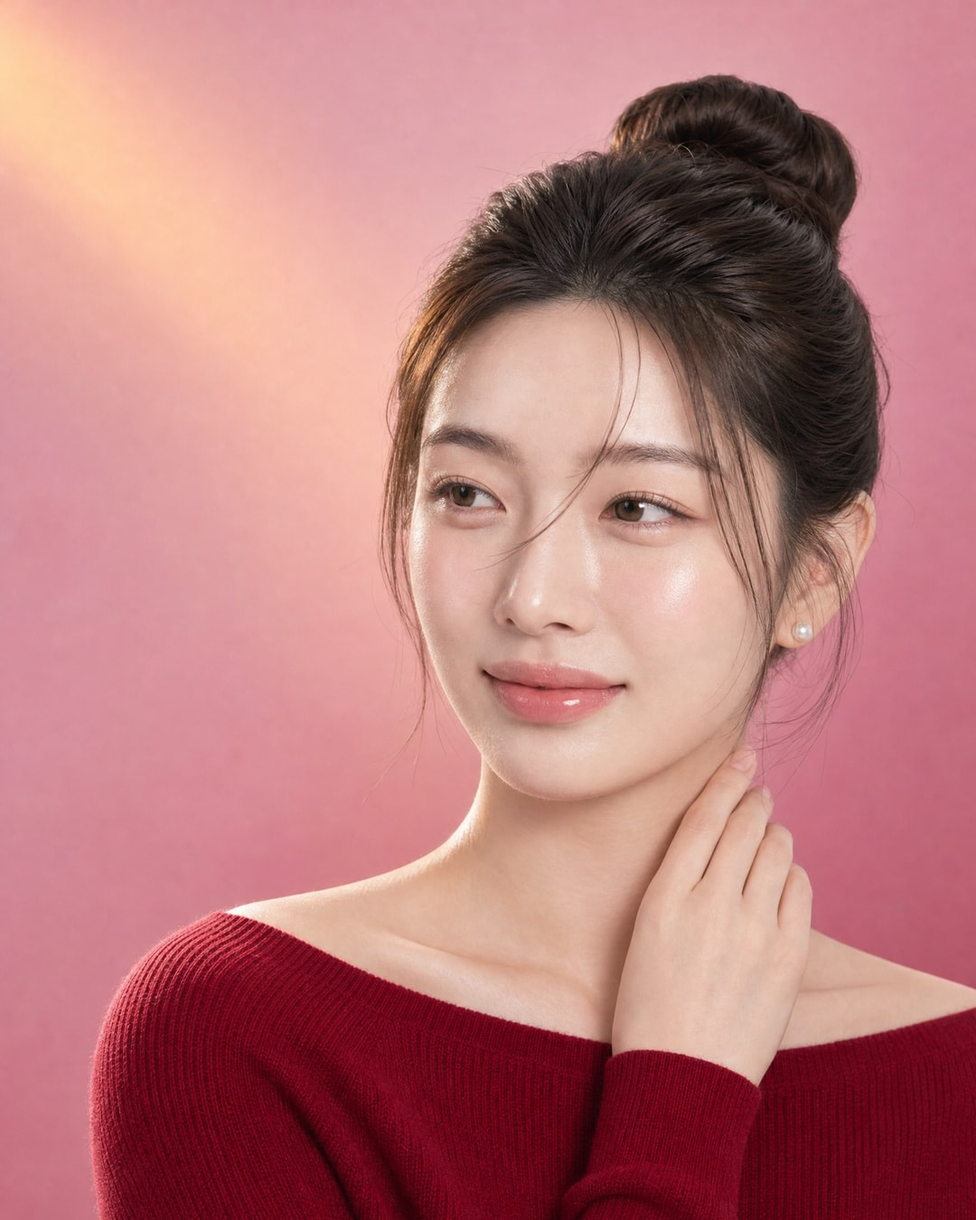
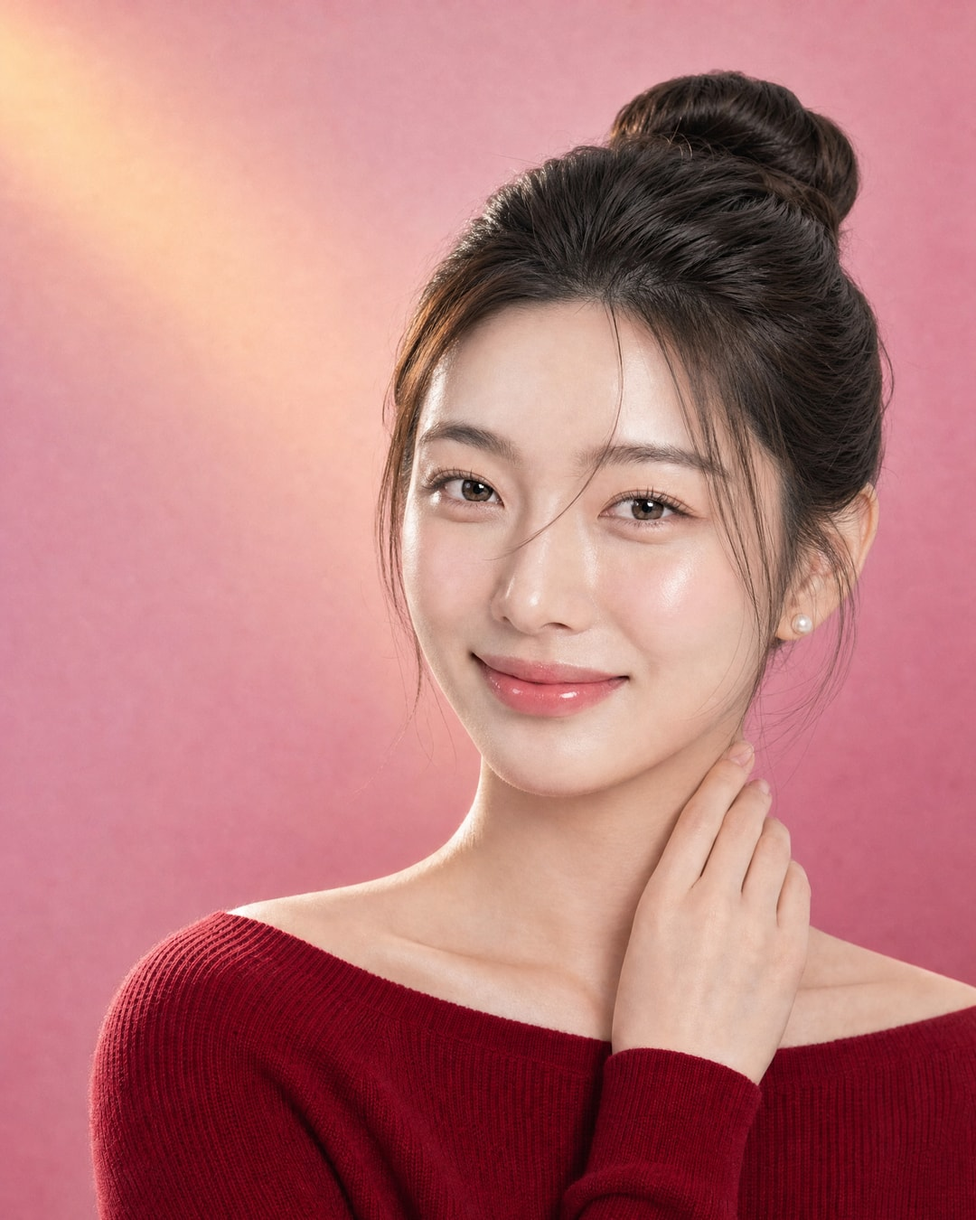
events-2026-12: CMB12F 히어로 미소 컷·2장 A 모델 컷(코멘트 #4·#12)

diff --git a/events-2026-12/combo12f/index.html b/events-2026-12/combo12f/index.html
@@ -26,7 +26,7 @@
 
     <!-- 1 / 5 : hero (F composition, model on the right, captions on the left) -->
     <section class="card c1" data-card="1" data-size-hide="line kakao" aria-labelledby="c6_t1">
-      <img class="c1-photo" src="assets/hero.jpg?v=a" data-alt="c6_alt_hero" alt="" width="1080" height="1350">
+      <img class="c1-photo" src="assets/hero.jpg?v=b" data-alt="c6_alt_hero" alt="" width="1080" height="1350">
       <span class="h-shade" aria-hidden="true"></span>
       <span class="frame f-hero" aria-hidden="true"><i class="fc tl"></i><i class="fc tr"></i><i class="fc bl"></i><i class="fc br"></i></span>
       <img class="dec h-glint" src="assets/dec/glint-1.png" alt="" aria-hidden="true" width="220" height="220">
@@ -50,7 +50,7 @@
     <!-- SZ:line:1a -->
     <!-- line 1A: the model cutout large at the right on the petal colour, caption and hook boxes at the left, the title low left, period / VAT / contact along the bottom -->
     <section class="card c1 L L1a" data-card="1" data-size-only="line" aria-labelledby="c6_t1-l">
-      <img class="h-model" src="sizes/hero-cut.webp" data-alt="c6_alt_hero" alt="">
+      <img class="h-model" src="sizes/hero-cut.webp?v=b" data-alt="c6_alt_hero" alt="">
       <span class="h-shade" aria-hidden="true"></span>
       <span class="frame f-hero" aria-hidden="true"><i class="fc tl"></i><i class="fc tr"></i><i class="fc bl"></i><i class="fc br"></i></span>
       <img class="dec h-glint" src="assets/dec/glint-1.png" alt="" aria-hidden="true" width="220" height="220">
@@ -75,7 +75,7 @@
     <!-- SZ:kakao:1a -->
     <!-- kakao 1A: the model cutout at the right on the petal colour, caption, hook and title at the left, period / VAT / contact along the bottom -->
     <section class="card c1 K K1a" data-card="1" data-size-only="kakao" aria-labelledby="c6_t1-k">
-      <img class="h-model" src="sizes/hero-cut.webp" data-alt="c6_alt_hero" alt="">
+      <img class="h-model" src="sizes/hero-cut.webp?v=b" data-alt="c6_alt_hero" alt="">
       <span class="h-shade" aria-hidden="true"></span>
       <span class="frame f-hero" aria-hidden="true"><i class="fc tl"></i><i class="fc tr"></i><i class="fc bl"></i><i class="fc br"></i></span>
       <img class="dec h-glint" src="assets/dec/glint-1.png" alt="" aria-hidden="true" width="220" height="220">
@@ -174,7 +174,7 @@
     <!-- /SZ:kakao:1b -->
 
     <!-- 2 / 5 : prices, sheet rows 74-84 of 10_combo L73:T84 in sheet order -->
-    <section class="card cp rp-15" data-card="2" data-size-hide="line kakao" aria-labelledby="c6_t2">
+    <section class="card cp rp-15 c2m" data-card="2" data-size-hide="line kakao" aria-labelledby="c6_t2">
       <img class="tex" src="assets/tex-linen.jpg?v=a" alt="" aria-hidden="true" width="1080" height="1350">
       <span class="frame f-card" aria-hidden="true"><i class="fc tl"></i><i class="fc tr"></i><i class="fc bl"></i><i class="fc br"></i></span>
       <img class="dec p-snow" src="assets/dec/snow-2.png" alt="" aria-hidden="true" width="200" height="200">
@@ -186,7 +186,7 @@
           <p class="p-lead" data-copy="c6_p_lead"></p>
         </div>
         
-        <div class="pboard">
+        <div class="pboard"><img class="c2-model" src="photos/model-c2-cut.webp" data-alt="c6_alt_c2" alt="" width="657" height="1200">
           <div class="pg"><p class="prod-h"><span class="prod-n" data-copy="c6_p74_name"></span></p><ul class="prows"><li class="prow" data-price-row="10_combo:74"><div class="pn"><p class="pline"><span class="pnm" data-copy="c6_r74_name"></span></p></div><span class="plist money" data-price-list data-copy="c6_r74_list"></span><span class="psale money" data-price-sale data-copy="c6_r74_sale"></span></li><li class="prow" data-price-row="10_combo:75"><div class="pn"><p class="pline"><span class="pnm pplus" data-copy="c6_r75_name"></span><span class="pchip" data-copy="c6_r75_chip"></span><span class="pbadge" data-copy="c6_r75_badge"></span></p></div><span class="plist money" data-price-list data-copy="c6_r75_list"></span><span class="psale money" data-price-sale data-copy="c6_r75_sale"></span></li></ul></div>
           <div class="pg"><p class="prod-h"><span class="prod-n" data-copy="c6_p76_name"></span></p><ul class="prows"><li class="prow" data-price-row="10_combo:76"><div class="pn"><p class="pline"><span class="otag" data-copy="c6_r76_tag"></span><span class="pnm pplus" data-copy="c6_r76_name"></span><span class="pchip" data-copy="c6_r76_chip"></span><span class="pbadge" data-copy="c6_r76_badge"></span></p></div><span class="plist money" data-price-list data-copy="c6_r76_list"></span><span class="psale money" data-price-sale data-copy="c6_r76_sale"></span></li><li class="prow" data-price-row="10_combo:77"><div class="pn"><p class="pline"><span class="pnm" data-copy="c6_r77_name"></span><span class="pchip" data-copy="c6_r77_chip"></span><span class="pbadge" data-copy="c6_r77_badge"></span></p></div><span class="plist money" data-price-list data-copy="c6_r77_list"></span><span class="psale money" data-price-sale data-copy="c6_r77_sale"></span></li></ul></div>
           <div class="pg pg-solo"><ul class="prows"><li class="prow solo" data-price-row="10_combo:78"><div class="pn"><p class="pline"><span class="otag" data-copy="c6_r78_tag"></span><span class="pnm pplus" data-copy="c6_r78_name"></span><span class="pbadge" data-copy="c6_r78_badge"></span></p></div><span class="plist money" data-price-list data-copy="c6_r78_list"></span><span class="psale money" data-price-sale data-copy="c6_r78_sale"></span></li><li class="prow solo" data-price-row="10_combo:79"><div class="pn"><p class="pline"><span class="otag" data-copy="c6_r79_tag"></span><span class="pnm pplus" data-copy="c6_r79_name"></span></p></div><span class="plist money" data-price-list data-copy="c6_r79_list"></span><span class="psale money" data-price-sale data-copy="c6_r79_sale"></span></li><li class="prow solo" data-price-row="10_combo:80"><div class="pn"><p class="pline"><span class="pnm pplus" data-copy="c6_r80_name"></span></p></div><span class="plist money" data-price-list data-copy="c6_r80_list"></span><span class="psale money" data-price-sale data-copy="c6_r80_sale"></span></li><li class="prow solo" data-price-row="10_combo:81"><div class="pn"><p class="pline"><span class="pnm pplus" data-copy="c6_r81_name"></span></p></div><span class="plist money" data-price-list data-copy="c6_r81_list"></span><span class="psale money" data-price-sale data-copy="c6_r81_sale"></span></li><li class="prow solo" data-price-row="10_combo:82"><div class="pn"><p class="pline"><span class="pnm pplus" data-copy="c6_r82_name"></span><span class="pbadge" data-copy="c6_r82_badge"></span></p></div><span class="plist money" data-price-list data-copy="c6_r82_list"></span><span class="psale money" data-price-sale data-copy="c6_r82_sale"></span></li><li class="prow solo" data-price-row="10_combo:83"><div class="pn"><p class="pline"><span class="pnm" data-copy="c6_r83_name"></span></p></div><span class="plist money" data-price-list data-copy="c6_r83_list"></span><span class="psale money" data-price-sale data-copy="c6_r83_sale"></span></li><li class="prow solo" data-price-row="10_combo:84"><div class="pn"><p class="pline"><span class="pnm" data-copy="c6_r84_name"></span><span class="pbadge" data-copy="c6_r84_badge"></span></p></div><span class="plist money" data-price-list data-copy="c6_r84_list"></span><span class="psale money" data-price-sale data-copy="c6_r84_sale"></span></li></ul></div>
@@ -195,8 +195,8 @@
       </div>
     </section>
     <!-- SZ:line:2a -->
-    <!-- line 2A: head, the board in two columns (74-75 and 76-77 | 78-84), the 49% line and VAT -->
-    <section class="card cp rp-15 L L2a" data-card="2" data-size-only="line" aria-labelledby="c6_t2-l">
+    <!-- line 2A: head with the model at its right on the board top edge, the board (74-84), the 49% line and VAT -->
+    <section class="card cp rp-15 c2m L L2a" data-card="2" data-size-only="line" aria-labelledby="c6_t2-l">
       <img class="tex" src="assets/tex-linen.jpg?v=a" alt="" aria-hidden="true" width="1080" height="1350">
       <span class="frame f-card" aria-hidden="true"><i class="fc tl"></i><i class="fc tr"></i><i class="fc bl"></i><i class="fc br"></i></span>
       <img class="dec p-snow" src="assets/dec/snow-2.png" alt="" aria-hidden="true" width="200" height="200">
@@ -208,7 +208,7 @@
           <p class="p-lead" data-copy="c6_p_lead"></p>
         </div>
         
-        <div class="pboard">
+        <div class="pboard"><img class="c2-model" src="photos/model-c2-cut.webp" data-alt="c6_alt_c2" alt="" width="657" height="1200">
           <div class="pg"><p class="prod-h"><span class="prod-n" data-copy="c6_p74_name"></span></p><ul class="prows"><li class="prow" data-price-row="10_combo:74"><div class="pn"><p class="pline"><span class="pnm" data-copy="c6_r74_name"></span></p></div><span class="plist money" data-price-list data-copy="c6_r74_list"></span><span class="psale money" data-price-sale data-copy="c6_r74_sale"></span></li><li class="prow" data-price-row="10_combo:75"><div class="pn"><p class="pline"><span class="pnm pplus" data-copy="c6_r75_name"></span><span class="pchip" data-copy="c6_r75_chip"></span><span class="pbadge" data-copy="c6_r75_badge"></span></p></div><span class="plist money" data-price-list data-copy="c6_r75_list"></span><span class="psale money" data-price-sale data-copy="c6_r75_sale"></span></li></ul></div>
           <div class="pg"><p class="prod-h"><span class="prod-n" data-copy="c6_p76_name"></span></p><ul class="prows"><li class="prow" data-price-row="10_combo:76"><div class="pn"><p class="pline"><span class="otag" data-copy="c6_r76_tag"></span><span class="pnm pplus" data-copy="c6_r76_name"></span><span class="pchip" data-copy="c6_r76_chip"></span><span class="pbadge" data-copy="c6_r76_badge"></span></p></div><span class="plist money" data-price-list data-copy="c6_r76_list"></span><span class="psale money" data-price-sale data-copy="c6_r76_sale"></span></li><li class="prow" data-price-row="10_combo:77"><div class="pn"><p class="pline"><span class="pnm" data-copy="c6_r77_name"></span><span class="pchip" data-copy="c6_r77_chip"></span><span class="pbadge" data-copy="c6_r77_badge"></span></p></div><span class="plist money" data-price-list data-copy="c6_r77_list"></span><span class="psale money" data-price-sale data-copy="c6_r77_sale"></span></li></ul></div>
           <div class="pg pg-solo"><ul class="prows"><li class="prow solo" data-price-row="10_combo:78"><div class="pn"><p class="pline"><span class="otag" data-copy="c6_r78_tag"></span><span class="pnm pplus" data-copy="c6_r78_name"></span><span class="pbadge" data-copy="c6_r78_badge"></span></p></div><span class="plist money" data-price-list data-copy="c6_r78_list"></span><span class="psale money" data-price-sale data-copy="c6_r78_sale"></span></li><li class="prow solo" data-price-row="10_combo:79"><div class="pn"><p class="pline"><span class="otag" data-copy="c6_r79_tag"></span><span class="pnm pplus" data-copy="c6_r79_name"></span></p></div><span class="plist money" data-price-list data-copy="c6_r79_list"></span><span class="psale money" data-price-sale data-copy="c6_r79_sale"></span></li><li class="prow solo" data-price-row="10_combo:80"><div class="pn"><p class="pline"><span class="pnm pplus" data-copy="c6_r80_name"></span></p></div><span class="plist money" data-price-list data-copy="c6_r80_list"></span><span class="psale money" data-price-sale data-copy="c6_r80_sale"></span></li><li class="prow solo" data-price-row="10_combo:81"><div class="pn"><p class="pline"><span class="pnm pplus" data-copy="c6_r81_name"></span></p></div><span class="plist money" data-price-list data-copy="c6_r81_list"></span><span class="psale money" data-price-sale data-copy="c6_r81_sale"></span></li><li class="prow solo" data-price-row="10_combo:82"><div class="pn"><p class="pline"><span class="pnm pplus" data-copy="c6_r82_name"></span><span class="pbadge" data-copy="c6_r82_badge"></span></p></div><span class="plist money" data-price-list data-copy="c6_r82_list"></span><span class="psale money" data-price-sale data-copy="c6_r82_sale"></span></li><li class="prow solo" data-price-row="10_combo:83"><div class="pn"><p class="pline"><span class="pnm" data-copy="c6_r83_name"></span></p></div><span class="plist money" data-price-list data-copy="c6_r83_list"></span><span class="psale money" data-price-sale data-copy="c6_r83_sale"></span></li><li class="prow solo" data-price-row="10_combo:84"><div class="pn"><p class="pline"><span class="pnm" data-copy="c6_r84_name"></span><span class="pbadge" data-copy="c6_r84_badge"></span></p></div><span class="plist money" data-price-list data-copy="c6_r84_list"></span><span class="psale money" data-price-sale data-copy="c6_r84_sale"></span></li></ul></div>
@@ -218,8 +218,8 @@
     </section>
     <!-- /SZ:line:2a -->
     <!-- SZ:kakao:2a -->
-    <!-- kakao 2A in three parts: kicker, title, 74-75, 76-77 | the lead line, 78-81 | 82-84, the 49% line and VAT -->
-    <section class="card cp rp-15 K K2a K2ap1" data-card="2" data-part="1" data-size-only="kakao" aria-labelledby="c6_t2-k1">
+    <!-- kakao 2A in three parts: kicker, title, the model on the board top, 74-75 | the lead line, 76-77, 78-80 | 81-84, the 49% line and VAT -->
+    <section class="card cp rp-15 c2m K K2a K2ap1" data-card="2" data-part="1" data-size-only="kakao" aria-labelledby="c6_t2-k1">
       <img class="tex" src="assets/tex-linen.jpg?v=a" alt="" aria-hidden="true" width="1080" height="1350">
       <span class="frame f-card" aria-hidden="true"><i class="fc tl"></i><i class="fc tr"></i><i class="fc bl"></i><i class="fc br"></i></span>
       <img class="dec p-snow" src="assets/dec/snow-2.png" alt="" aria-hidden="true" width="200" height="200">
@@ -230,13 +230,12 @@
           <h2 class="p-title" id="c6_t2-k1"><img class="tri" src="assets/dec/tri.png" alt="" aria-hidden="true" width="120" height="120"><span class="pt-main" data-copy="c6_p_title"></span></h2>
         </div>
         
-        <div class="pboard">
+        <div class="pboard"><img class="c2-model" src="photos/model-c2-cut.webp" data-alt="c6_alt_c2" alt="" width="657" height="1200">
           <div class="pg"><p class="prod-h"><span class="prod-n" data-copy="c6_p74_name"></span></p><ul class="prows"><li class="prow" data-price-row="10_combo:74"><div class="pn"><p class="pline"><span class="pnm" data-copy="c6_r74_name"></span></p></div><span class="plist money" data-price-list data-copy="c6_r74_list"></span><span class="psale money" data-price-sale data-copy="c6_r74_sale"></span></li><li class="prow" data-price-row="10_combo:75"><div class="pn"><p class="pline"><span class="pnm pplus" data-copy="c6_r75_name"></span><span class="pchip" data-copy="c6_r75_chip"></span><span class="pbadge" data-copy="c6_r75_badge"></span></p></div><span class="plist money" data-price-list data-copy="c6_r75_list"></span><span class="psale money" data-price-sale data-copy="c6_r75_sale"></span></li></ul></div>
-          <div class="pg"><p class="prod-h"><span class="prod-n" data-copy="c6_p76_name"></span></p><ul class="prows"><li class="prow" data-price-row="10_combo:76"><div class="pn"><p class="pline"><span class="otag" data-copy="c6_r76_tag"></span><span class="pnm pplus" data-copy="c6_r76_name"></span><span class="pchip" data-copy="c6_r76_chip"></span><span class="pbadge" data-copy="c6_r76_badge"></span></p></div><span class="plist money" data-price-list data-copy="c6_r76_list"></span><span class="psale money" data-price-sale data-copy="c6_r76_sale"></span></li><li class="prow" data-price-row="10_combo:77"><div class="pn"><p class="pline"><span class="pnm" data-copy="c6_r77_name"></span><span class="pchip" data-copy="c6_r77_chip"></span><span class="pbadge" data-copy="c6_r77_badge"></span></p></div><span class="plist money" data-price-list data-copy="c6_r77_list"></span><span class="psale money" data-price-sale data-copy="c6_r77_sale"></span></li></ul></div>
         </div>
       </div>
     </section>
-    <section class="card cp rp-15 K K2a K2ap2" data-card="2" data-part="2" data-size-only="kakao" aria-label="베스트셀러 시술 금액 2">
+    <section class="card cp rp-15 c2m K K2a K2ap2" data-card="2" data-part="2" data-size-only="kakao" aria-label="베스트셀러 시술 금액 2">
       <img class="tex" src="assets/tex-linen.jpg?v=a" alt="" aria-hidden="true" width="1080" height="1350">
       <span class="frame f-card" aria-hidden="true"><i class="fc tl"></i><i class="fc tr"></i><i class="fc bl"></i><i class="fc br"></i></span>
       <img class="dec p-snow" src="assets/dec/snow-2.png" alt="" aria-hidden="true" width="200" height="200">
@@ -247,11 +246,12 @@
         </div>
         
         <div class="pboard">
-          <div class="pg pg-solo"><ul class="prows"><li class="prow solo" data-price-row="10_combo:78"><div class="pn"><p class="pline"><span class="otag" data-copy="c6_r78_tag"></span><span class="pnm pplus" data-copy="c6_r78_name"></span><span class="pbadge" data-copy="c6_r78_badge"></span></p></div><span class="plist money" data-price-list data-copy="c6_r78_list"></span><span class="psale money" data-price-sale data-copy="c6_r78_sale"></span></li><li class="prow solo" data-price-row="10_combo:79"><div class="pn"><p class="pline"><span class="otag" data-copy="c6_r79_tag"></span><span class="pnm pplus" data-copy="c6_r79_name"></span></p></div><span class="plist money" data-price-list data-copy="c6_r79_list"></span><span class="psale money" data-price-sale data-copy="c6_r79_sale"></span></li><li class="prow solo" data-price-row="10_combo:80"><div class="pn"><p class="pline"><span class="pnm pplus" data-copy="c6_r80_name"></span></p></div><span class="plist money" data-price-list data-copy="c6_r80_list"></span><span class="psale money" data-price-sale data-copy="c6_r80_sale"></span></li><li class="prow solo" data-price-row="10_combo:81"><div class="pn"><p class="pline"><span class="pnm pplus" data-copy="c6_r81_name"></span></p></div><span class="plist money" data-price-list data-copy="c6_r81_list"></span><span class="psale money" data-price-sale data-copy="c6_r81_sale"></span></li></ul></div>
+          <div class="pg"><p class="prod-h"><span class="prod-n" data-copy="c6_p76_name"></span></p><ul class="prows"><li class="prow" data-price-row="10_combo:76"><div class="pn"><p class="pline"><span class="otag" data-copy="c6_r76_tag"></span><span class="pnm pplus" data-copy="c6_r76_name"></span><span class="pchip" data-copy="c6_r76_chip"></span><span class="pbadge" data-copy="c6_r76_badge"></span></p></div><span class="plist money" data-price-list data-copy="c6_r76_list"></span><span class="psale money" data-price-sale data-copy="c6_r76_sale"></span></li><li class="prow" data-price-row="10_combo:77"><div class="pn"><p class="pline"><span class="pnm" data-copy="c6_r77_name"></span><span class="pchip" data-copy="c6_r77_chip"></span><span class="pbadge" data-copy="c6_r77_badge"></span></p></div><span class="plist money" data-price-list data-copy="c6_r77_list"></span><span class="psale money" data-price-sale data-copy="c6_r77_sale"></span></li></ul></div>
+          <div class="pg pg-solo"><ul class="prows"><li class="prow solo" data-price-row="10_combo:78"><div class="pn"><p class="pline"><span class="otag" data-copy="c6_r78_tag"></span><span class="pnm pplus" data-copy="c6_r78_name"></span><span class="pbadge" data-copy="c6_r78_badge"></span></p></div><span class="plist money" data-price-list data-copy="c6_r78_list"></span><span class="psale money" data-price-sale data-copy="c6_r78_sale"></span></li><li class="prow solo" data-price-row="10_combo:79"><div class="pn"><p class="pline"><span class="otag" data-copy="c6_r79_tag"></span><span class="pnm pplus" data-copy="c6_r79_name"></span></p></div><span class="plist money" data-price-list data-copy="c6_r79_list"></span><span class="psale money" data-price-sale data-copy="c6_r79_sale"></span></li><li class="prow solo" data-price-row="10_combo:80"><div class="pn"><p class="pline"><span class="pnm pplus" data-copy="c6_r80_name"></span></p></div><span class="plist money" data-price-list data-copy="c6_r80_list"></span><span class="psale money" data-price-sale data-copy="c6_r80_sale"></span></li></ul></div>
         </div>
       </div>
     </section>
-    <section class="card cp rp-15 K K2a K2ap3" data-card="2" data-part="3" data-size-only="kakao" aria-label="베스트셀러 시술 금액 3">
+    <section class="card cp rp-15 c2m K K2a K2ap3" data-card="2" data-part="3" data-size-only="kakao" aria-label="베스트셀러 시술 금액 3">
       <img class="tex" src="assets/tex-linen.jpg?v=a" alt="" aria-hidden="true" width="1080" height="1350">
       <span class="frame f-card" aria-hidden="true"><i class="fc tl"></i><i class="fc tr"></i><i class="fc bl"></i><i class="fc br"></i></span>
       <img class="dec p-snow" src="assets/dec/snow-2.png" alt="" aria-hidden="true" width="200" height="200">
@@ -261,7 +261,7 @@
         </div>
         
         <div class="pboard">
-          <div class="pg pg-solo"><ul class="prows"><li class="prow solo" data-price-row="10_combo:82"><div class="pn"><p class="pline"><span class="pnm pplus" data-copy="c6_r82_name"></span><span class="pbadge" data-copy="c6_r82_badge"></span></p></div><span class="plist money" data-price-list data-copy="c6_r82_list"></span><span class="psale money" data-price-sale data-copy="c6_r82_sale"></span></li><li class="prow solo" data-price-row="10_combo:83"><div class="pn"><p class="pline"><span class="pnm" data-copy="c6_r83_name"></span></p></div><span class="plist money" data-price-list data-copy="c6_r83_list"></span><span class="psale money" data-price-sale data-copy="c6_r83_sale"></span></li><li class="prow solo" data-price-row="10_combo:84"><div class="pn"><p class="pline"><span class="pnm" data-copy="c6_r84_name"></span><span class="pbadge" data-copy="c6_r84_badge"></span></p></div><span class="plist money" data-price-list data-copy="c6_r84_list"></span><span class="psale money" data-price-sale data-copy="c6_r84_sale"></span></li></ul></div>
+          <div class="pg pg-solo"><ul class="prows"><li class="prow solo" data-price-row="10_combo:81"><div class="pn"><p class="pline"><span class="pnm pplus" data-copy="c6_r81_name"></span></p></div><span class="plist money" data-price-list data-copy="c6_r81_list"></span><span class="psale money" data-price-sale data-copy="c6_r81_sale"></span></li><li class="prow solo" data-price-row="10_combo:82"><div class="pn"><p class="pline"><span class="pnm pplus" data-copy="c6_r82_name"></span><span class="pbadge" data-copy="c6_r82_badge"></span></p></div><span class="plist money" data-price-list data-copy="c6_r82_list"></span><span class="psale money" data-price-sale data-copy="c6_r82_sale"></span></li><li class="prow solo" data-price-row="10_combo:83"><div class="pn"><p class="pline"><span class="pnm" data-copy="c6_r83_name"></span></p></div><span class="plist money" data-price-list data-copy="c6_r83_list"></span><span class="psale money" data-price-sale data-copy="c6_r83_sale"></span></li><li class="prow solo" data-price-row="10_combo:84"><div class="pn"><p class="pline"><span class="pnm" data-copy="c6_r84_name"></span><span class="pbadge" data-copy="c6_r84_badge"></span></p></div><span class="plist money" data-price-list data-copy="c6_r84_list"></span><span class="psale money" data-price-sale data-copy="c6_r84_sale"></span></li></ul></div>
         </div>
         <p class="uibeop" data-copy="c6_uibeop"></p><p class="vat"><span data-copy="c6_vat"></span></p>
       </div>

diff --git a/events-2026-12/combo12f/copy-data.js b/events-2026-12/combo12f/copy-data.js
@@ -1,2 +1,2 @@
 /* generated by v4/combo12f/build-combo12f.cjs, do not edit by hand */
-window.PAGE_COPY = {"id":"CMB12F","locales":{"KO":{"c6_period":"12.01 – 02.28","c6_vat":"VAT 10% 별도","c6_contact":"예약·문의 02-336-7511","c6_hero_en":"WINTER SEASON EVENT","c6_ca_tag":"이벤트가","c6_hook":"턱선·입매·목주름·팔자, 고민 부위에 맞춰 고르는 쁘띠 시술이에요.","c6_alt_hero":"분홍빛 배경 앞에서 루비색 니트를 입고 목에 손을 얹은 모델","c6_p_kicker":"PRICE LIST","c6_p_lead":"cc는 주입하는 양, 줄은 넣는 실의 개수예요.","c6_xa_kicker":"HOW TO CHOOSE","c6_xa_q":"고민 부위부터 정해요","c6_xa_a":"같은 표 안에서도 부위마다 쓰는 방법이 달라요. 얼굴 라인은 장비와 주사, 입매와 목은 필러와 톡신, 팔자는 실과 필러로 나눠 보면 쉬워요.","c6_xa_k1_t":"얼굴 라인","c6_xa_k1_n":"인모드 · V핏 주사 · 사각턱 톡신","c6_xa_k1_d":"인모드는 고주파 장비예요. FX는 피부를 흡입하며 턱밑 같은 작은 부위에, 포마는 피부에 밀착해 탄력 관리에 써요. V핏 주사는 지방 분해 주사예요.","c6_xa_k2_t":"입매·턱끝","c6_xa_k2_n":"필러 + 톡신 구성","c6_xa_k2_d":"필러는 히알루론산 젤로 볼륨과 윤곽을 채우고, 톡신은 주변 근육의 움직임을 조절해 필러의 모양과 라인을 유지하는 데 도움을 줘요. 입술과 입꼬리, 턱끝과 자갈턱을 함께 받아요.","c6_xa_k3_t":"목주름","c6_xa_k3_n":"필러 1cc + 스킨 톡신","c6_xa_k3_d":"목에 가로로 생긴 주름을 필러로 채워 볼륨을 보완하고, 스킨 톡신을 함께 시술해 목 피부의 잔주름과 결을 관리하는 복합 시술이에요.","c6_xa_k4_t":"팔자","c6_xa_k4_n":"잼버실 · 민트실 · 필러","c6_xa_k4_d":"잼버실은 코일 모양 볼륨실, 민트실은 돌기가 있는 코그실이에요. 둘 다 녹는 PDO 실이고, 잼버실은 필러와 함께 받아요.","c6_xa_pick_t":"원인을 먼저 봐요","c6_xa_pick_d":"같은 부위도 처진 건지, 꺼진 건지, 근육이 발달한 건지에 따라 고르는 시술이 달라요. 상담에서 얼굴 비율과 이전 시술을 보고 함께 정해요.","c6_xa_src":"아이콘은 이해를 돕는 그림이에요 · 출처: 뷰티블라썸 홈페이지 인모드·뷰티핏/블라썸핏 주사·필러·실리프팅 안내","c6_xb_kicker":"HOW IT GOES","c6_xb_q":"시술 당일은 이렇게 진행돼요","c6_xb_a":"부위와 양을 정하고, 필요한 마취 뒤 시술해요. 대부분 받은 날 일상으로 돌아가요.","c6_xb_s1_no":"01","c6_xb_s1_t":"상담·디자인","c6_xb_s1_d":"고민 부위와 이전 시술, 복용 중인 약을 확인하고 부위·제품·양을 정해요.","c6_xb_s2_no":"02","c6_xb_s2_t":"마취","c6_xb_s2_d":"실 시술은 부분 마취를 해요. 다른 시술도 필요하면 마취를 함께 정해요.","c6_xb_s3_no":"03","c6_xb_s3_t":"시술","c6_xb_s3_d":"정한 자리에 주사하거나 실을 넣어요. 인모드는 장비로 진행해요.","c6_xb_s4_no":"04","c6_xb_s4_t":"경과 확인","c6_xb_s4_d":"붓기와 회복 경과를 안내하고, 다음 일정을 함께 정해요.","c6_xb_i1_k":"인모드 시간","c6_xb_i1_v":"5분 내외","c6_xb_i1_n":"얼굴 전체 FX/포마 기준이에요","c6_xb_i2_k":"일상 복귀","c6_xb_i2_v":"대부분 당일","c6_xb_i2_n":"붓기·멍이 생길 수 있어요","c6_xb_i3_k":"실 시술 후 세안","c6_xb_i3_v":"약 24시간 뒤","c6_xb_i3_n":"붓기·멍은 보통 1~2주면 가라앉아요","c6_xb_care_t":"받은 뒤에는 이렇게 관리해요","c6_xb_care1":"실 시술 뒤 1~2주는 얼굴 마사지·사우나·과음·격한 운동을 피해 주세요.","c6_xb_care2":"V핏 주사 뒤 1주일은 음주와 사우나를 피해 주세요.","c6_xb_care3":"필러 부위는 세게 누르거나 문지르지 말아 주세요.","c6_xb_alert":"시야나 피부색이 평소와 다르면 바로 병원에 알려 주세요.","c6_xb_src":"출처: 뷰티블라썸 홈페이지 필러·실리프팅·뷰티핏/블라썸핏 주사 안내","c6_alt_c4":"루비색 니트를 입고 카메라를 보며 환하게 웃는 모델","c6_ab_kicker":"ABOUT BEAUTY BLOSSOM","c6_ab_title":"당신의 하루를 빛나게, 뷰티블라썸","c6_ab_intro1":"고객 한 분 한 분의 개성을 존중하는 맞춤 진료,","c6_ab_intro2":"모든 과정을 투명하게 안내해 드려요.","c6_ab_dr_name":"이건호 대표원장","c6_ab_dr_quote":"자연스러운 아름다움을 위해 늘 함께하겠습니다.","c6_ab_ph1":"RECEPTION","c6_ab_ph2":"CARE ROOM","c6_ab_ph3":"TREATMENT ROOM","c6_ab_s1_t":"정품·정량","c6_ab_s1_d":"정품 약물과 장비, 정량을 지켜요","c6_ab_s2_t":"개인별 맞춤상담","c6_ab_s2_d":"피부 상태와 원하는 목표를 보고 계획을 세워요","c6_ab_s3_t":"저녁·주말 진료","c6_ab_s3_d":"평일 저녁 8시까지, 점심시간 없이 진료해요","c6_ab_s4_t":"외국어 통역","c6_ab_s4_d":"영어·중국어·일본어·태국어 통역이 상주해요","c6_ab_loc":"LOCATION","c6_ab_loc_title":"찾아오시는 길","c6_ab_way_station":"합정역 3번 출구","c6_ab_way_line":"2·6호선","c6_ab_way_addr":"서울 마포구 양화로 66 메디원메디컬센터 6·8층","c6_ab_way_desk":"6층 접수","c6_ab_hours_kicker":"OPENING HOURS","c6_ab_hours_lbl":"진료시간","c6_ab_h1":"평일 10:00–20:00","c6_ab_h2":"주말·대체공휴일 10:00–16:30","c6_ab_h3":"점심시간 없이 진료해요","c6_ab_bk_kicker":"RESERVATION","c6_ab_bk_title":"예약안내","c6_ab_bk_naver":"네이버 예약","c6_ab_bk_kakao":"카카오톡 '뷰티블라썸의원'","c6_ab_phone":"02-336-7511","c6_ab_qr":"네이버 예약 QR","c6_alt_ph1":"아치형 조명 벽 앞 6층 리셉션 데스크","c6_alt_ph2":"커튼으로 나뉜 관리실 베드","c6_alt_ph3":"시술 체어와 파티션이 있는 6층 시술실","c6_alt_director":"팔짱을 낀 이건호 대표원장","c6_alt_map":"합정역 3번 출구 근처 뷰티블라썸의원 위치를 표시한 지도","c6_alt_qr":"네이버 예약으로 연결되는 QR 코드","c6_note_title":"확인해 주세요","c6_cond1":"표시 금액은 모두 VAT 10% 별도예요.","c6_cond2":"부위·제품·양과 횟수는 상담에서 정해요. 반응과 회복은 사람마다 달라요.","c6_cond3":"시술 후 붉어짐·붓기·멍이 생길 수 있어요.","c6_cond4":"모델 사진과 아이콘은 연출된 이미지예요.","c6_cond5":"","c6_uibeop":"의료법상 최대 49% 할인","c6_p_title":"가성비 베스트셀러 시술","c6_p74_name":"인모드 얼굴 전체 FX/포마","c6_r74_name":"5분 내외","c6_r74_list":"16만원","c6_r74_sale":"8만8천원","c6_r75_name":"인모드 FX 5분 + V핏 주사 6cc","c6_r75_chip":"뷰티핏/블라썸핏","c6_r75_list":"22만원","c6_r75_sale":"11만9천원","c6_p76_name":"V 슬림 솔루션","c6_r76_name":"사각턱 보톡스 + V핏 주사 6cc","c6_r76_tag":"국산","c6_r76_chip":"뷰티핏/블라썸핏","c6_r76_list":"13만원","c6_r76_sale":"6만9천원","c6_r77_name":"V핏 주사 12cc","c6_r77_chip":"뷰티핏/블라썸핏","c6_r77_list":"17만원","c6_r77_sale":"9만5천원","c6_r78_name":"젤리 입술필러 + 입꼬리 보톡스","c6_r78_tag":"국산","c6_r78_list":"40만원","c6_r78_sale":"22만원","c6_r79_name":"V라인 턱끝 필러 + 자갈턱 보톡스","c6_r79_tag":"국산","c6_r79_list":"22만원","c6_r79_sale":"12만원","c6_r80_name":"목주름 팽팽 리쥬비엘 필러 1cc + 목주름 스킨보톡스","c6_r80_list":"54만원","c6_r80_sale":"29만9천원","c6_r81_name":"팔자 지우개잼버실 2줄 + 팔자필러 2cc","c6_r81_list":"64만원","c6_r81_sale":"35만원","c6_r82_name":"팔자 지우개잼버실 2줄 + 쥬베룩 볼륨 3cc","c6_r82_list":"73만원","c6_r82_sale":"39만9천원","c6_r83_name":"팔자 민트실 4줄","c6_r83_list":"64만원","c6_r83_sale":"35만원","c6_r84_name":"민트실 8줄","c6_r84_list":"140만원","c6_r84_sale":"77만원","c6_title_a":"가성비 베스트셀러","c6_title_b":"시술","c6_ca_name":"인모드 얼굴 전체 FX/포마","c6_ca_sub":"5분 내외","c6_ca_list":"16만원","c6_ca_sale":"8만8천원","c6_r75_badge":"BEST","c6_r76_badge":"BEST","c6_r77_badge":"HIT","c6_r78_badge":"BEST","c6_r82_badge":"HIT","c6_r84_badge":"BEST"}},"links":{"booking":"https://m.booking.naver.com/booking/13/bizes/1323382?theme=place&service-target=map-pc&lang=ko&area=plt&map-search=1","kakao":"https://pf.kakao.com/_yrHCn/friend","phone":"tel:02-336-7511"},"channels":{"KO":{"booking":"https://m.booking.naver.com/booking/13/bizes/1323382?theme=place&service-target=map-pc&lang=ko&area=plt&map-search=1","kakao":"https://pf.kakao.com/_yrHCn/friend","phone":"tel:02-336-7511","qr":"assets/naver-booking-qr.png"}},"gmap":{"KO":{"desk":"assets/gmap/gmap-oligio12-desk-KO.webp","tab":"assets/gmap/gmap-oligio12-tab-KO.webp","mob":"assets/gmap/gmap-oligio12-mob-KO.webp"}},"prices":{"tab":"10_combo","range":["L73:T84"],"rows":[{"row":"10_combo:74","card":2,"list":"16만원","sale":"8만8천원"},{"row":"10_combo:75","card":2,"list":"22만원","sale":"11만9천원"},{"row":"10_combo:76","card":2,"list":"13만원","sale":"6만9천원"},{"row":"10_combo:77","card":2,"list":"17만원","sale":"9만5천원"},{"row":"10_combo:78","card":2,"list":"40만원","sale":"22만원"},{"row":"10_combo:79","card":2,"list":"22만원","sale":"12만원"},{"row":"10_combo:80","card":2,"list":"54만원","sale":"29만9천원"},{"row":"10_combo:81","card":2,"list":"64만원","sale":"35만원"},{"row":"10_combo:82","card":2,"list":"73만원","sale":"39만9천원"},{"row":"10_combo:83","card":2,"list":"64만원","sale":"35만원"},{"row":"10_combo:84","card":2,"list":"140만원","sale":"77만원"}]},"cards":5};
+window.PAGE_COPY = {"id":"CMB12F","locales":{"KO":{"c6_period":"12.01 – 02.28","c6_vat":"VAT 10% 별도","c6_contact":"예약·문의 02-336-7511","c6_hero_en":"WINTER SEASON EVENT","c6_ca_tag":"이벤트가","c6_hook":"턱선·입매·목주름·팔자, 고민 부위에 맞춰 고르는 쁘띠 시술이에요.","c6_alt_hero":"분홍빛 배경 앞에서 루비색 니트를 입고 목에 손을 얹은 모델","c6_p_kicker":"PRICE LIST","c6_p_lead":"cc는 주입하는 양, 줄은 넣는 실의 개수예요.","c6_xa_kicker":"HOW TO CHOOSE","c6_xa_q":"고민 부위부터 정해요","c6_xa_a":"같은 표 안에서도 부위마다 쓰는 방법이 달라요. 얼굴 라인은 장비와 주사, 입매와 목은 필러와 톡신, 팔자는 실과 필러로 나눠 보면 쉬워요.","c6_xa_k1_t":"얼굴 라인","c6_xa_k1_n":"인모드 · V핏 주사 · 사각턱 톡신","c6_xa_k1_d":"인모드는 고주파 장비예요. FX는 피부를 흡입하며 턱밑 같은 작은 부위에, 포마는 피부에 밀착해 탄력 관리에 써요. V핏 주사는 지방 분해 주사예요.","c6_xa_k2_t":"입매·턱끝","c6_xa_k2_n":"필러 + 톡신 구성","c6_xa_k2_d":"필러는 히알루론산 젤로 볼륨과 윤곽을 채우고, 톡신은 주변 근육의 움직임을 조절해 필러의 모양과 라인을 유지하는 데 도움을 줘요. 입술과 입꼬리, 턱끝과 자갈턱을 함께 받아요.","c6_xa_k3_t":"목주름","c6_xa_k3_n":"필러 1cc + 스킨 톡신","c6_xa_k3_d":"목에 가로로 생긴 주름을 필러로 채워 볼륨을 보완하고, 스킨 톡신을 함께 시술해 목 피부의 잔주름과 결을 관리하는 복합 시술이에요.","c6_xa_k4_t":"팔자","c6_xa_k4_n":"잼버실 · 민트실 · 필러","c6_xa_k4_d":"잼버실은 코일 모양 볼륨실, 민트실은 돌기가 있는 코그실이에요. 둘 다 녹는 PDO 실이고, 잼버실은 필러와 함께 받아요.","c6_xa_pick_t":"원인을 먼저 봐요","c6_xa_pick_d":"같은 부위도 처진 건지, 꺼진 건지, 근육이 발달한 건지에 따라 고르는 시술이 달라요. 상담에서 얼굴 비율과 이전 시술을 보고 함께 정해요.","c6_xa_src":"아이콘은 이해를 돕는 그림이에요 · 출처: 뷰티블라썸 홈페이지 인모드·뷰티핏/블라썸핏 주사·필러·실리프팅 안내","c6_xb_kicker":"HOW IT GOES","c6_xb_q":"시술 당일은 이렇게 진행돼요","c6_xb_a":"부위와 양을 정하고, 필요한 마취 뒤 시술해요. 대부분 받은 날 일상으로 돌아가요.","c6_xb_s1_no":"01","c6_xb_s1_t":"상담·디자인","c6_xb_s1_d":"고민 부위와 이전 시술, 복용 중인 약을 확인하고 부위·제품·양을 정해요.","c6_xb_s2_no":"02","c6_xb_s2_t":"마취","c6_xb_s2_d":"실 시술은 부분 마취를 해요. 다른 시술도 필요하면 마취를 함께 정해요.","c6_xb_s3_no":"03","c6_xb_s3_t":"시술","c6_xb_s3_d":"정한 자리에 주사하거나 실을 넣어요. 인모드는 장비로 진행해요.","c6_xb_s4_no":"04","c6_xb_s4_t":"경과 확인","c6_xb_s4_d":"붓기와 회복 경과를 안내하고, 다음 일정을 함께 정해요.","c6_xb_i1_k":"인모드 시간","c6_xb_i1_v":"5분 내외","c6_xb_i1_n":"얼굴 전체 FX/포마 기준이에요","c6_xb_i2_k":"일상 복귀","c6_xb_i2_v":"대부분 당일","c6_xb_i2_n":"붓기·멍이 생길 수 있어요","c6_xb_i3_k":"실 시술 후 세안","c6_xb_i3_v":"약 24시간 뒤","c6_xb_i3_n":"붓기·멍은 보통 1~2주면 가라앉아요","c6_xb_care_t":"받은 뒤에는 이렇게 관리해요","c6_xb_care1":"실 시술 뒤 1~2주는 얼굴 마사지·사우나·과음·격한 운동을 피해 주세요.","c6_xb_care2":"V핏 주사 뒤 1주일은 음주와 사우나를 피해 주세요.","c6_xb_care3":"필러 부위는 세게 누르거나 문지르지 말아 주세요.","c6_xb_alert":"시야나 피부색이 평소와 다르면 바로 병원에 알려 주세요.","c6_xb_src":"출처: 뷰티블라썸 홈페이지 필러·실리프팅·뷰티핏/블라썸핏 주사 안내","c6_alt_c4":"루비색 니트를 입고 카메라를 보며 환하게 웃는 모델","c6_ab_kicker":"ABOUT BEAUTY BLOSSOM","c6_ab_title":"당신의 하루를 빛나게, 뷰티블라썸","c6_ab_intro1":"고객 한 분 한 분의 개성을 존중하는 맞춤 진료,","c6_ab_intro2":"모든 과정을 투명하게 안내해 드려요.","c6_ab_dr_name":"이건호 대표원장","c6_ab_dr_quote":"자연스러운 아름다움을 위해 늘 함께하겠습니다.","c6_ab_ph1":"RECEPTION","c6_ab_ph2":"CARE ROOM","c6_ab_ph3":"TREATMENT ROOM","c6_ab_s1_t":"정품·정량","c6_ab_s1_d":"정품 약물과 장비, 정량을 지켜요","c6_ab_s2_t":"개인별 맞춤상담","c6_ab_s2_d":"피부 상태와 원하는 목표를 보고 계획을 세워요","c6_ab_s3_t":"저녁·주말 진료","c6_ab_s3_d":"평일 저녁 8시까지, 점심시간 없이 진료해요","c6_ab_s4_t":"외국어 통역","c6_ab_s4_d":"영어·중국어·일본어·태국어 통역이 상주해요","c6_ab_loc":"LOCATION","c6_ab_loc_title":"찾아오시는 길","c6_ab_way_station":"합정역 3번 출구","c6_ab_way_line":"2·6호선","c6_ab_way_addr":"서울 마포구 양화로 66 메디원메디컬센터 6·8층","c6_ab_way_desk":"6층 접수","c6_ab_hours_kicker":"OPENING HOURS","c6_ab_hours_lbl":"진료시간","c6_ab_h1":"평일 10:00–20:00","c6_ab_h2":"주말·대체공휴일 10:00–16:30","c6_ab_h3":"점심시간 없이 진료해요","c6_ab_bk_kicker":"RESERVATION","c6_ab_bk_title":"예약안내","c6_ab_bk_naver":"네이버 예약","c6_ab_bk_kakao":"카카오톡 '뷰티블라썸의원'","c6_ab_phone":"02-336-7511","c6_ab_qr":"네이버 예약 QR","c6_alt_ph1":"아치형 조명 벽 앞 6층 리셉션 데스크","c6_alt_ph2":"커튼으로 나뉜 관리실 베드","c6_alt_ph3":"시술 체어와 파티션이 있는 6층 시술실","c6_alt_director":"팔짱을 낀 이건호 대표원장","c6_alt_map":"합정역 3번 출구 근처 뷰티블라썸의원 위치를 표시한 지도","c6_alt_qr":"네이버 예약으로 연결되는 QR 코드","c6_note_title":"확인해 주세요","c6_cond1":"표시 금액은 모두 VAT 10% 별도예요.","c6_cond2":"부위·제품·양과 횟수는 상담에서 정해요. 반응과 회복은 사람마다 달라요.","c6_cond3":"시술 후 붉어짐·붓기·멍이 생길 수 있어요.","c6_cond4":"모델 사진과 아이콘은 연출된 이미지예요.","c6_cond5":"","c6_uibeop":"의료법상 최대 49% 할인","c6_p_title":"가성비 베스트셀러 시술","c6_p74_name":"인모드 얼굴 전체 FX/포마","c6_r74_name":"5분 내외","c6_r74_list":"16만원","c6_r74_sale":"8만8천원","c6_r75_name":"인모드 FX 5분 + V핏 주사 6cc","c6_r75_chip":"뷰티핏/블라썸핏","c6_r75_list":"22만원","c6_r75_sale":"11만9천원","c6_p76_name":"V 슬림 솔루션","c6_r76_name":"사각턱 보톡스 + V핏 주사 6cc","c6_r76_tag":"국산","c6_r76_chip":"뷰티핏/블라썸핏","c6_r76_list":"13만원","c6_r76_sale":"6만9천원","c6_r77_name":"V핏 주사 12cc","c6_r77_chip":"뷰티핏/블라썸핏","c6_r77_list":"17만원","c6_r77_sale":"9만5천원","c6_r78_name":"젤리 입술필러 + 입꼬리 보톡스","c6_r78_tag":"국산","c6_r78_list":"40만원","c6_r78_sale":"22만원","c6_r79_name":"V라인 턱끝 필러 + 자갈턱 보톡스","c6_r79_tag":"국산","c6_r79_list":"22만원","c6_r79_sale":"12만원","c6_r80_name":"목주름 팽팽 리쥬비엘 필러 1cc + 목주름 스킨보톡스","c6_r80_list":"54만원","c6_r80_sale":"29만9천원","c6_r81_name":"팔자 지우개잼버실 2줄 + 팔자필러 2cc","c6_r81_list":"64만원","c6_r81_sale":"35만원","c6_r82_name":"팔자 지우개잼버실 2줄 + 쥬베룩 볼륨 3cc","c6_r82_list":"73만원","c6_r82_sale":"39만9천원","c6_r83_name":"팔자 민트실 4줄","c6_r83_list":"64만원","c6_r83_sale":"35만원","c6_r84_name":"민트실 8줄","c6_r84_list":"140만원","c6_r84_sale":"77만원","c6_title_a":"가성비 베스트셀러","c6_title_b":"시술","c6_ca_name":"인모드 얼굴 전체 FX/포마","c6_ca_sub":"5분 내외","c6_ca_list":"16만원","c6_ca_sale":"8만8천원","c6_r75_badge":"BEST","c6_r76_badge":"BEST","c6_r77_badge":"HIT","c6_r78_badge":"BEST","c6_r82_badge":"HIT","c6_r84_badge":"BEST","c6_alt_c2":"루비색 니트를 입고 미소 짓는 모델"}},"links":{"booking":"https://m.booking.naver.com/booking/13/bizes/1323382?theme=place&service-target=map-pc&lang=ko&area=plt&map-search=1","kakao":"https://pf.kakao.com/_yrHCn/friend","phone":"tel:02-336-7511"},"channels":{"KO":{"booking":"https://m.booking.naver.com/booking/13/bizes/1323382?theme=place&service-target=map-pc&lang=ko&area=plt&map-search=1","kakao":"https://pf.kakao.com/_yrHCn/friend","phone":"tel:02-336-7511","qr":"assets/naver-booking-qr.png"}},"gmap":{"KO":{"desk":"assets/gmap/gmap-oligio12-desk-KO.webp","tab":"assets/gmap/gmap-oligio12-tab-KO.webp","mob":"assets/gmap/gmap-oligio12-mob-KO.webp"}},"prices":{"tab":"10_combo","range":["L73:T84"],"rows":[{"row":"10_combo:74","card":2,"list":"16만원","sale":"8만8천원"},{"row":"10_combo:75","card":2,"list":"22만원","sale":"11만9천원"},{"row":"10_combo:76","card":2,"list":"13만원","sale":"6만9천원"},{"row":"10_combo:77","card":2,"list":"17만원","sale":"9만5천원"},{"row":"10_combo:78","card":2,"list":"40만원","sale":"22만원"},{"row":"10_combo:79","card":2,"list":"22만원","sale":"12만원"},{"row":"10_combo:80","card":2,"list":"54만원","sale":"29만9천원"},{"row":"10_combo:81","card":2,"list":"64만원","sale":"35만원"},{"row":"10_combo:82","card":2,"list":"73만원","sale":"39만9천원"},{"row":"10_combo:83","card":2,"list":"64만원","sale":"35만원"},{"row":"10_combo:84","card":2,"list":"140만원","sale":"77만원"}]},"cards":5};

diff --git a/events-2026-12/combo12f/combo12f.css b/events-2026-12/combo12f/combo12f.css
@@ -393,6 +393,22 @@ a[data-link="phone"]{white-space:nowrap}
 /* CMB12F team comments 2026-11-09 (v4/combo12f/fixes/fb-20261109.cjs). Home rules; the size cards add their own in sizes.css.
    #5 ~ #10: BEST / HIT badge at the end of the row line (A price card), the page's filled ruby label in the wide face of its English labels. */
 .pline .pbadge{display:inline-flex;align-items:center;justify-content:center;flex:none;align-self:center;font-family:var(--f-wide);font-weight:400;font-size:max(11px,calc(13*var(--px)));line-height:1.2;letter-spacing:.08em;color:var(--linen);background:var(--ruby);padding:.3em .62em .34em;white-space:nowrap} /* Michroma sits low in its line box: .04em more below than above centres the caps (qa/text-center-check.cjs 1080 / 780 / line / kakao) */
+
+/* #4: the A price card's board moves down and a new cut of the hero model stands at the right of the head on the board's top edge
+   (img.c2-model, first in .pboard: bottom:100%, the cutout cut straight across at the board top by object-fit / object-position).
+   The head sits in the middle of the band between the top row and the board; the rows close up (--rp 15 -> 7) so the board still ends above VAT,
+   and the snowflake moves down a little to stay clear of the board. Home 1080 numbers; the size cards set their own in sizes.css. */
+.c2-model{position:absolute;right:0;bottom:100%;width:calc(279*var(--px));height:calc(360*var(--px));object-fit:cover;object-position:50% 0;user-select:none}
+.cp.c2m:not([data-size-only]){--rp:7}
+.cp.c2m:not([data-size-only]) .cp-head{margin-top:calc(122*var(--px))}
+.cp.c2m:not([data-size-only]) .pboard{margin-top:calc(122*var(--px))}
+.cp.c2m:not([data-size-only]) .p-snow{bottom:calc(50*var(--px))}
+@container (max-width:600px){
+  /* phone: the model in the column the head leaves free at its right (.cp-head margin-right 92px), head and shoulders */
+  .cp.c2m:not([data-size-only]) .cp-head{margin-top:12px;min-height:100px}
+  .cp.c2m:not([data-size-only]) .pboard{margin-top:14px}
+  .c2-model{width:86px;height:110px}
+}
 /* ===== FIXES 20261109 END ===== */
 /* ===== SIZES START (generated from v4/combo12f/sizes/sizes.css, do not edit here) ===== */
 /* ===================== 2026-11-06 channel sizes (v4/events/CHANNEL_SIZES_20261106.md) =====================
@@ -443,6 +459,14 @@ html[data-size]:not(#sz) .L2a .prod-h{padding-top:6px;padding-bottom:2px}
 html[data-size]:not(#sz) .L2a .p-snow{left:760px;right:auto;top:96px;bottom:auto;width:60px}
 html[data-size]:not(#sz) .L2a .vat{margin-top:auto;padding-top:6px}
 html[data-size]:not(#sz) .L2a .uibeop{bottom:30px}
+/* 2026-11-09 #4: the model at the right of the head on the board's top edge; the head sits in the middle of the band above the board,
+   the rows close up so the board still ends above VAT */
+html[data-size]:not(#sz) .L2a .cp-head{margin-top:43px}
+html[data-size]:not(#sz) .L2a .pboard{margin-top:43px;gap:6px}
+html[data-size]:not(#sz) .L2a .pg{padding-top:3px;padding-bottom:3px}
+html[data-size]:not(#sz) .L2a .prow{padding-top:3px;padding-bottom:3px}
+html[data-size]:not(#sz) .L2a .prod-h{padding-top:4px;padding-bottom:1px}
+html[data-size]:not(#sz) .L2a .c2-model{right:0;width:165px;height:208px}
 html[data-size]:not(#sz) .L2b .b-price-grid{grid-template-columns:repeat(3,minmax(0,1fr))}
 /* 3: the four kinds as rows (icon beside the text), pick box, source */
 html[data-size]:not(#sz) .L3 .cx-in{padding:34px 56px 26px}
@@ -515,8 +539,17 @@ html[data-size]:not(#sz) .K3 .q-head{margin-top:0}
 html[data-size]:not(#sz) .K3 .kinds{flex:none;margin-top:10px}
 html[data-size]:not(#sz) .K3 .src{margin-top:6px}
 /* decorations stay off the text: the snowflake beside the title (part 1) / under the period chip (part 2), the dot disc in the top row */
-html[data-size]:not(#sz) .K2ap1 .p-snow{left:600px;right:auto;top:96px;bottom:auto;width:56px}
-html[data-size]:not(#sz) .K2ap2 .p-snow,html[data-size]:not(#sz) .K2ap3 .p-snow{left:auto;right:40px;top:74px;bottom:auto;width:44px}
+/* (K2ap1 snowflake: see the 2026-11-09 #4 rules below) */
+html[data-size]:not(#sz) .K2ap2 .p-snow{left:auto;right:40px;top:74px;bottom:auto;width:44px}
+/* part 3 starts its board right under the top row, so its snowflake sits low at the right beside VAT (as home) */
+html[data-size]:not(#sz) .K2ap3 .p-snow{left:auto;right:44px;top:auto;bottom:62px;width:44px}
+/* 2026-11-09 #4: part 1 = kicker, the title on two lines (a line break only), the model at the right on the board's top edge, 74-75;
+   the head sits in the middle of the band above the board. The snowflake gives its place to the model in this part */
+html[data-size]:not(#sz) .K2ap1 .cp-head{margin-top:81px}
+html[data-size]:not(#sz) .K2ap1 .pt-main{white-space:normal;width:340px}
+html[data-size]:not(#sz) .K2ap1 .pboard{margin-top:81px}
+html[data-size]:not(#sz) .K2ap1 .c2-model{right:0;width:237px;height:310px}
+html[data-size]:not(#sz) .K2ap1 .p-snow{display:none}
 html[data-size]:not(#sz) .K3 .x-disc{right:44px;top:10px;width:72px}
 html[data-size]:not(#sz) .K3p2 .kinds{margin-top:8px}
 html[data-size]:not(#sz) .K3 .pick{padding:16px 22px}
@@ -547,9 +580,12 @@ html[data-size]:not(#sz) .K5p3 .map{width:100%}
 html[data-size]:not(#sz) .K5p3 .bk-row{grid-template-columns:120px;grid-template-rows:auto auto;justify-items:start;align-content:center}
 /* text centring in the chips (qa/text-center-check.cjs --size): glyphs snap to whole pixels, so each chip below moves its text by half a pixel (growing one side) from its computed padding */
 html[data-size]:not(#sz) .K2ap1 span.prod-n[data-copy="c6_p74_name"]{padding-top:5.06px!important;padding-bottom:5.18px!important}
-html[data-size]:not(#sz) .K2ap1 span.pchip[data-copy="c6_r75_chip"]{padding-top:3.1px!important;padding-bottom:0.3px!important}
 /* 2026-11-09: this badge's line centre falls on half a pixel, so the text snapped 0.5px off its box centre; the box moves down half a pixel */
 html[data-size]:not(#sz) .K2ap3 span.pbadge[data-copy="c6_r84_badge"]{position:relative;top:.5px}
+/* 2026-11-09 #4: kakao 2A rows moved between parts (part 1 = 74-75 under the model, part 2 = 76-80); these labels snapped off their box centre at the new positions */
+html[data-size]:not(#sz) .K2ap1 span.pbadge[data-copy="c6_r75_badge"]{position:relative;top:.5px}
+html[data-size]:not(#sz) .K2ap2 span.otag[data-copy="c6_r76_tag"]{padding-top:2.03px!important;padding-bottom:2.33px!important}
+html[data-size]:not(#sz) .K2ap2 span.otag[data-copy="c6_r79_tag"]{padding-top:2.03px!important;padding-bottom:2.33px!important}
 /* ---------- /KAKAO ---------- */
 /* ===================== /channel sizes ===================== */
 /* ===== SIZES END ===== */
